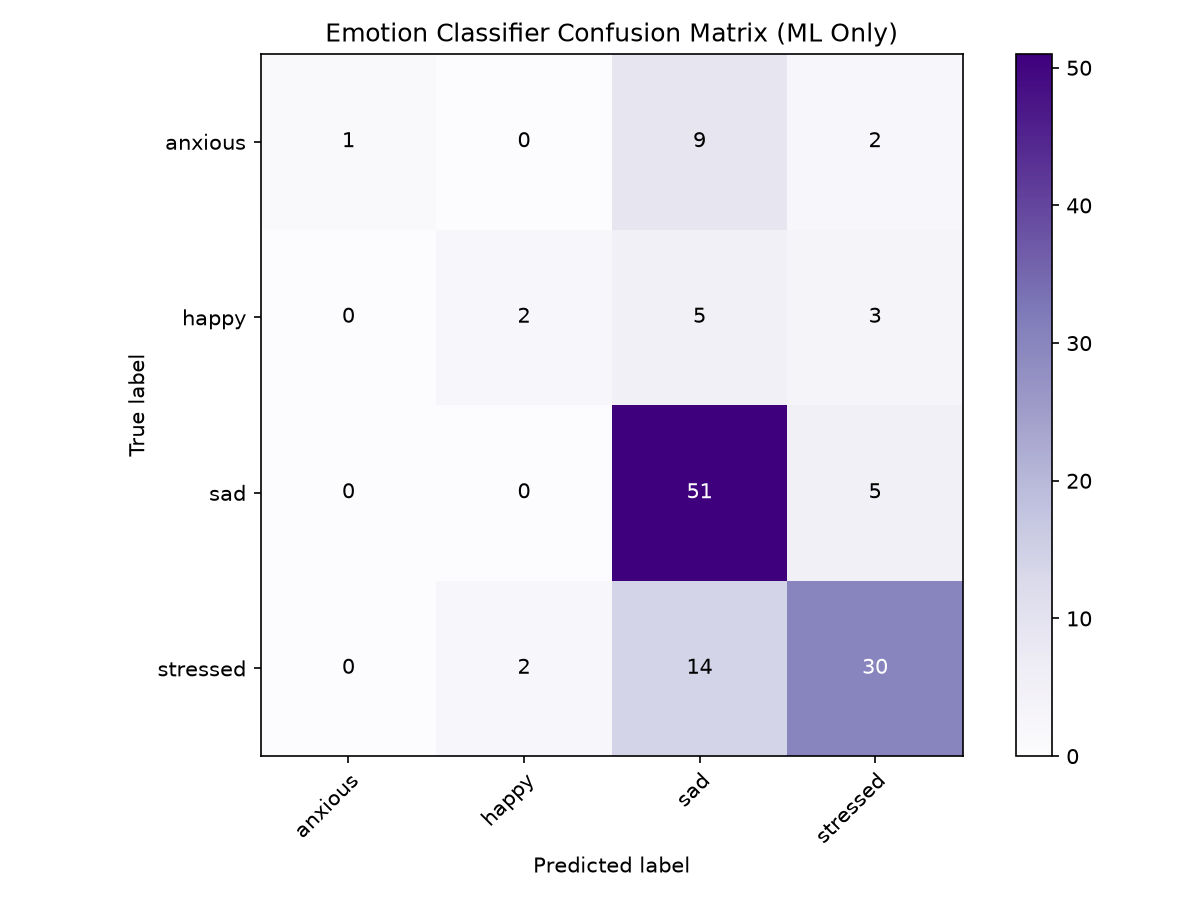
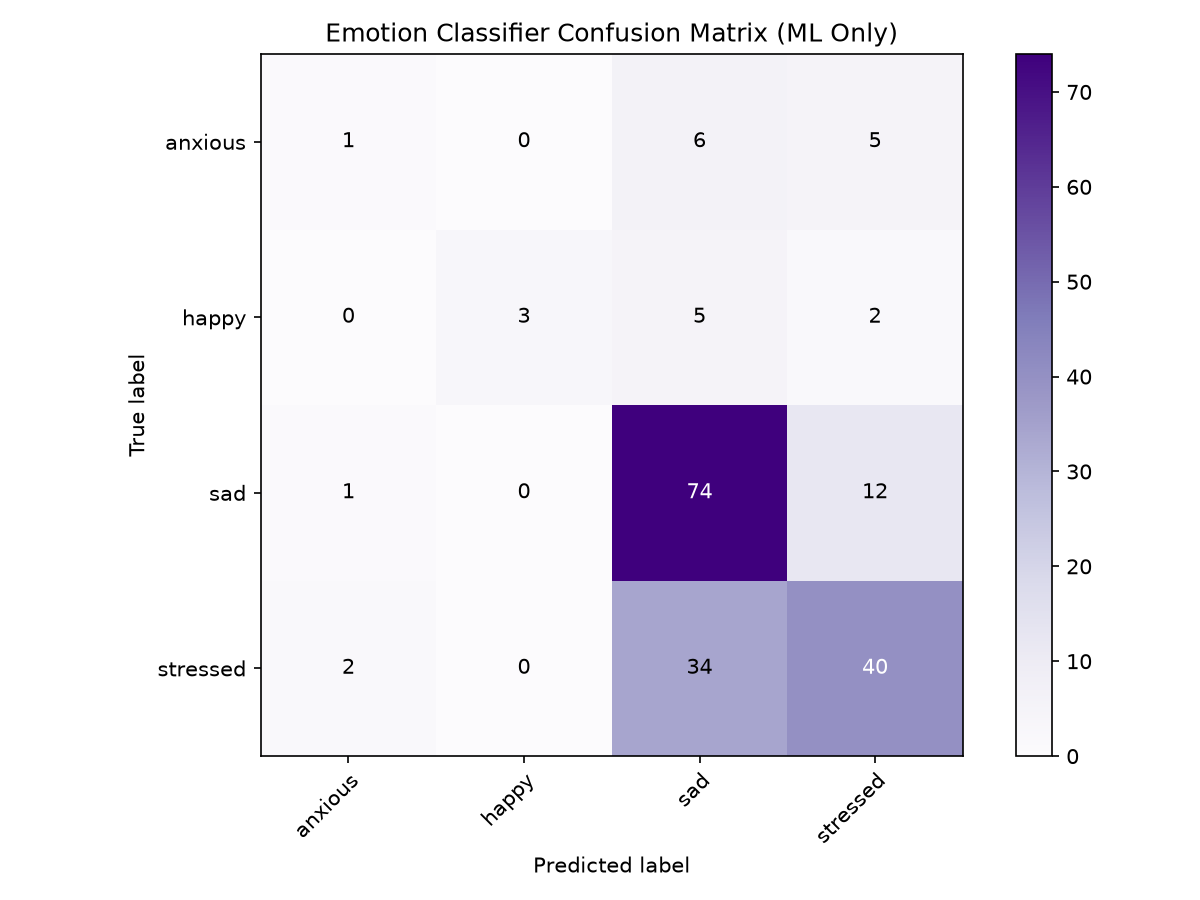
update videos bonding issue

diff --git a/frontend/ml/training_data.py b/frontend/ml/training_data.py
@@ -446,6 +446,26 @@ FINANCIAL_TEXTS = [
     "Money is very tight and I am worried about the future",
     "I don't know how we will manage our baby expenses",
     "Financial pressure is making me feel hopeless",
+    "I keep worrying about whether we can afford everything the baby needs",
+    "The cost of diapers and baby supplies is putting a lot of pressure on me",
+    "I am scared that our money will not be enough for the baby's expenses",
+    "I constantly think about how we are going to pay our household bills",
+    "Having a baby has made our financial situation much harder",
+    "I feel stressed whenever I look at our monthly expenses",
+    "I do not know how we will manage all these new baby costs",
+    "I worry that we will run out of money before the end of the month",
+    "The price of baby products is making me very anxious",
+    "I feel helpless because our income is not enough for everything",
+    "I keep calculating our expenses in my head every night",
+    "I am worried about paying for the things my baby will need",
+    "Our savings are disappearing faster than I expected",
+    "I am afraid of having an unexpected expense because we have very little money left",
+    "Money problems are making this period much harder for me",
+    "I feel guilty when I cannot afford something my baby needs",
+    "I keep thinking about our debt and how we will manage it",
+    "We are struggling to cover our basic household expenses",
+    "I am worried about the cost of my baby's medical needs",
+    "I cannot stop thinking about how expensive everything has become",
     # Sinhala Unicode
     "මට බබා ලැබුණාට පස්සේ සල්ලි ගැන ලොකු බයක් තියෙනවා",
     "මට වියදම් ගැන ගොඩක් කනස්සල්ලයි",
@@ -455,6 +475,21 @@ FINANCIAL_TEXTS = [
     "සල්ලි ප්රශ්න නිසා මට හරිම අමාරුයි",
     "වියදම් වැඩි නිසා මට මූල්යමය කනස්සල්ලක් තියෙනවා",
     "මුදල් ප්රශ්න නිසා හිතට කිසිම සහනයක් නැහැ",
+     "බබාට අවශ්ය හැම දෙයක්ම ගන්න අපිට සල්ලි මදි වෙයි කියලා මට බයයි",
+    "ඩයපර් සහ බබාගේ අනෙකුත් දේවල්වල වියදම ගොඩක් වැඩියි",
+    "මේ මාසේ ගෙදර බිල් ගෙවන්නේ කොහොමද කියලා මම නිතරම හිතනවා",
+    "බබාගේ වියදම් නිසා අපේ මුදල් ප්රශ්න වැඩි වෙලා වගේ දැනෙනවා",
+    "අපේ ආදායම හැම වියදමකටම ප්රමාණවත් නැහැ",
+    "අපේ ඉතිරිකිරීම් ඉක්මනින් අඩු වෙනවා කියලා මට බයයි",
+    "බබාට අවශ්ය දේවල් ගන්න බැරි වෙයි කියලා මට කනගාටුයි",
+    "ගෙදර වියදම් සහ බබාගේ වියදම් දෙකම කළමනාකරණය කරන්න අමාරුයි",
+    "හදිසි වියදමක් ආවොත් අපිට ඒක දරාගන්න බැරි වෙයි කියලා බයයි",
+    "බබාගේ වෛද්ය වියදම් ගැන මම ගොඩක් කනස්සල්ලෙන් ඉන්නේ",
+    "මුදල් ප්රශ්න නිසා මගේ හිතට ලොකු පීඩනයක් දැනෙනවා",
+    "හැම මාසෙම වියදම් ගණන් කරමින් ඉන්න එක මට හරිම මහන්සියි",
+    "අපේ ණය ගෙවන්නේ කොහොමද කියලා මම නිතරම කල්පනා කරනවා",
+    "බබා ලැබුණට පස්සේ අපේ ආර්ථික තත්ත්වය අමාරු වෙලා",
+    "හැම දේම මිල වැඩි නිසා අපිට ජීවත් වෙන්න අමාරුයි",
     # Singlish
     "mata salli gana godak baya hithenawa",
     "mata financial problems thiyenawa",
@@ -464,6 +499,22 @@ FINANCIAL_TEXTS = [
     "expenses wadi nisa financial stress",
     "salli naha baby ge wada walata",
     "mudal gatalu nisa mata harima amaruwi"
+    "mata baya hitheenne baba ta ona dewal okkoma ganna salli madi wei kiyala",
+    "ape income eka athi wenne naha baba ge expenses ekka",
+    "diapers saha baba ge dewal walata yanawata godak salli yanawa",
+    "mata hamadama hithenne me maseta bills gewanne kohomada kiyala",
+    "ape savings tika ikmanata iwara wenawa wage danenawa",
+    "baba ge wiyadam nisa ape mudal prashna godak wadi wela",
+    "mata salli gana hithala godak baya hithenawa",
+    "unexpected expense ekak awoth api kohomada karanne kiyala mata baya",
+    "baba ta ona dewal ganna bari wei kiyala mata dukai",
+    "ape gedara expenses manage karanna mata amarui",
+    "salli madi nisa mata godak pressure ekak danenawa",
+    "mata hamadama bills saha baba ge wiyadam gana hithenawa",
+    "ape atha thiyena salli tika godak ikmanin adu wenawa",
+    "baba ge medical expenses gana mama godak worry wenawa",
+    "api me wage salli prashna ekka kohomada issarahata yanne kiyala danne naha",
+
 ]
 FINANCIAL_REASONS = ["financial_worry"] * len(FINANCIAL_TEXTS)
 FINANCIAL_EMOTIONS = ["stressed"] * len(FINANCIAL_TEXTS)
@@ -483,6 +534,27 @@ RELATIONSHIP_TEXTS = [
     "My partner and I cannot communicate without arguing",
     "Family problems are making my postpartum recovery harder",
     "I feel like my marriage is breaking apart after the baby",
+    "My husband and I keep arguing since the baby was born",
+    "I feel hurt because my partner and I cannot communicate properly anymore",
+    "There is constant tension between me and my husband",
+    "My family keeps criticizing the way I care for my baby",
+    "I argue with my mother whenever she gives me advice about the baby",
+    "My partner does not understand why I am upset with him",
+    "Small conversations with my husband quickly turn into arguments",
+    "I feel emotionally hurt by the way my husband speaks to me",
+    "My family and I disagree about how the baby should be raised",
+    "I feel like my relationship with my partner has changed completely",
+    "We cannot discuss parenting without getting into an argument",
+    "My husband and I have been distant because we keep fighting",
+    "I feel frustrated by the constant disagreements at home",
+    "My parents keep interfering in decisions about my baby",
+    "I do not feel understood by my partner when we discuss the baby",
+    "There has been so much conflict between our families lately",
+    "My husband gets angry whenever I tell him how I feel",
+    "I feel hurt after the arguments I have with my family",
+    "We have different opinions about almost everything concerning the baby",
+    "My relationship feels tense since becoming parents",
+
     # Sinhala Unicode
     "මට බබා ලැබුණාට පස්සේ මගේ husband එක්ක ප්රශ්න",
     "අපි දෙන්නා අතර නිතරම රණ්ඩු වෙනවා",
@@ -492,6 +564,20 @@ RELATIONSHIP_TEXTS = [
     "සැමියා එක්ක නිතරම ආරවුල් ඇතිවෙනවා",
     "පවුලේ අය මට සහයෝගය නොදී ප්රශ්න ඇතිකරනවා",
     "අපේ අඹුසැමි සබඳතාවය බබා ලැබුණාට පස්සේ දුරස් වෙලා",
+    "බබා ලැබුණට පස්සේ මගේ මහත්තයා එක්ක නිතරම වාද වෙනවා",
+    "මට මගේ සහකරු එක්ක හොඳින් කතා කරගන්න බැරි වෙලා",
+    "මම මගේ මහත්තයා එක්ක කතා කරන හැම වෙලාවකම ප්රශ්නයක් ඇති වෙනවා",
+    "මගේ පවුලේ අය බබාව බලාගන්න විදිහ ගැන නිතරම විවේචනය කරනවා",
+    "බබාව හදන විදිහ ගැන අපේ අදහස් එකිනෙකට වෙනස්",
+    "මගේ සහකරු මට දැනෙන දේ තේරුම් ගන්නේ නැහැ",
+    "ගෙදර පොඩි කතා පවා දැන් වාදයකට යනවා",
+    "මගේ මහත්තයා මට කතා කරන විදිහ නිසා මට ගොඩක් රිදෙනවා",
+    "බබා ගැන තීරණ ගන්නකොට අපි දෙන්නා එකඟ වෙන්නේ නැහැ",
+    "දරුවා ලැබුණට පස්සේ අපේ සම්බන්ධය ගොඩක් වෙනස් වෙලා",
+    "මගේ දෙමාපියන් බබා ගැන ගන්න තීරණවලට වැඩිපුර මැදිහත් වෙනවා",
+    "ගෙදර හැමදාම වගේ ආතතියක් සහ මතභේදයක් තියෙනවා",
+    "මගේ මහත්තයා එක්ක ඇති වෙන වාද නිසා මගේ හිත ගොඩක් රිදෙනවා",
+    "අපේ පවුල් දෙක අතරත් මේ දවස්වල ගොඩක් ප්රශ්න තියෙනවා",
     # Singlish
     "mata husband ekka relationship eka gana prashna thiyenawa",
     "baba labunata passe ape relationship eka hari naha",
@@ -499,6 +585,21 @@ RELATIONSHIP_TEXTS = [
     "husband ekka hamawelama randu wenawa",
     "pawule aya ekka prashna nisa stress",
     "ape relationship eka badaga wela baba labuna passe"
+    "baba ipaduna passe mage husband ekka hamadama wage tharah wenawa",
+    "ape dekadena athara podi dewal walatath arguments wenawa",
+    "mage husband mata mama danena widihata therum ganneth naha",
+    "gedara aya baba hadana widihata gana hamadama comment karanawa",
+    "mama mage husband ekka kathaa karanna giyama eka arguments ekakin iwara wenawa",
+    "ape relationship eka kalin wage nemei kiyala danenawa",
+    "mage family eka baba gana ganna decisions walata atha danawa",
+    "mage husband mata hithena dewal kiyuwama tharah wenawa",
+    "baba gana ape dekadena athara eka ekkena ekka agree wenne naha",
+    "gedara hamadama tension ekak thiyenawa",
+    "mama husband ekka tharah wela passe godak dukai",
+    "ape family dekama athara godak prashna thiyenawa",
+    "mage husband mata support karanne kohomada kiyala api dekadena athara arguments thiyenawa",
+    "mage amma baba gana kiyala dena dewal walata mama godak upset wenawa",
+    "api baba hadana widiya gana hemadama agree wenne naha",
 ]
 RELATIONSHIP_REASONS = ["relationship_family_problem"] * len(RELATIONSHIP_TEXTS)
 RELATIONSHIP_EMOTIONS = ["stressed"] * len(RELATIONSHIP_TEXTS)
@@ -622,7 +723,42 @@ CONFIDENCE_TEXTS = [
     "I feel like I am not cut out for motherhood",
     "I keep comparing myself to other mothers and feeling inferior",
     "I have no confidence left and feel like giving up",
+    "I keep wondering whether I am good enough to be a mother",
+    "I do not trust myself to make the right decisions for my baby",
+    "I feel like other mothers know what they are doing but I do not",
+    "I doubt myself every time my baby needs something",
+    "I feel like I am failing at motherhood",
+    "I am constantly questioning whether I am taking care of my baby correctly",
+    "I have lost confidence in my ability to look after my child",
+    "I feel incapable whenever something goes wrong with the baby",
+    "I compare myself with other mothers and feel inadequate",
+    "I keep thinking that another mother would do a better job than me",
+    "I am afraid that I am not a good enough mother",
+    "I second guess almost every parenting decision I make",
+    "I feel unsure about myself as a parent",
+    "I do not feel confident when handling my baby",
+    "I feel like everyone else understands motherhood better than I do",
+    "I worry that I am making mistakes as a mother",
+    "I have stopped believing that I can handle motherhood well",
+    "I feel embarrassed when I do not know what to do for my baby",
+    "I keep asking myself whether I am doing enough for my child",
+    "My confidence as a mother has become very low",
+
     # Sinhala
+    "මම හොඳ අම්මා කෙනෙක්ද කියලා නිතරම මට සැක හිතෙනවා",
+    "බබා වෙනුවෙන් හොඳ තීරණ ගන්න මට මාවම විශ්වාස නැහැ",
+    "අනිත් අම්මලාට හැම දෙයක්ම තේරෙනවා වගේ මට කිසි දෙයක් තේරෙන්නේ නැහැ",
+    "බබාට මොනවා හරි වුණාම මම මගේ හැකියාව ගැන සැක කරනවා",
+    "මම අම්මා කෙනෙක් විදිහට අසාර්ථකයි වගේ මට දැනෙනවා",
+    "බබාව හරියට බලාගන්නවාද කියලා මම හැමදාම සැක කරනවා",
+    "අම්මා කෙනෙක් විදිහට මගේ විශ්වාසය ගොඩක් අඩු වෙලා",
+    "බබාට මොනවා කරන්නද කියලා නොදන්න වෙලාවට මට මම ගැනම ලැජ්ජයි",
+    "අනිත් අම්මලා එක්ක මාව සසඳනකොට මම ප්රමාණවත් නැහැ වගේ දැනෙනවා",
+    "මම කරන හැම parenting decision එකක් ගැනම ආයෙ ආයෙ හිතනවා",
+    "මට බබාව හරියට බලාගන්න පුළුවන්ද කියලා විශ්වාස නැහැ",
+    "අම්මා කෙනෙක් විදිහට මගේ හැකියාව ගැන මට සැකයි",
+    "මම බබා වෙනුවෙන් ප්රමාණවත් දෙයක් කරනවාද කියලා නිතරම හිතනවා",
+    "මගේ අම්මා කෙනෙක් විදිහට තිබුණු විශ්වාසය දැන් ගොඩක් අඩුයි",
     "\u0db8\u0db8 \u0db1\u0dbb\u0d9a \u0d85\u0db8\u0dca\u0db8\u0dcf \u0d9a\u0dd9\u0db1\u0dd9\u0d9a\u0dca \u0db8\u0da7 \u0d9a\u0dd2\u0dc3\u0dd2\u0db8 \u0daf\u0dd9\u0dba\u0d9a\u0dca \u0db6\u0dd0\u0dc4\u0dd0",
     "\u0db8\u0da7 \u0db8\u0d82 \u0d9c\u0dd0\u0db1 \u0d9a\u0dd2\u0dc3\u0dd2\u0db8 \u0dc5\u0dc1\u0dca\u0dc0\u0dcf\u0dc3\u0dba\u0d9a\u0dca \u0db1\u0dd0\u0dc4\u0dd0",
     "\u0db8\u0db8 \u0d9a\u0dbb\u0db1\u0dca\u0db1\u0dda \u0dc4\u0dd0\u0db8\u0daf\u0dda\u0db8 \u0dc0\u0dbb\u0daf\u0dd2\u0db1\u0dc0\u0dcf",
@@ -644,6 +780,21 @@ CONFIDENCE_TEXTS = [
     "mata amma widiyata inna baha kiyala hithena",
     "mata man gana wishwasayak naha amma wenna baha kiyala",
     "mama anith ammala wage karana baha kiyala harima duka",
+    "mama hithanne mama hondama amm kenekda kiyala",
+    "baba gana hari decision ekak ganna mata wiswasayak naha",
+    "anith amma la okkoma danne wage mata witharak kisima deyak therenneth naha",
+    "baba ta mokak hari unama mama mage gana doubt wenawa",
+    "mata hithenne mama ammek widihata fail wela wage",
+    "mama baba balaganne hariyata da kiyala hamadama hithanawa",
+    "mata baba handle karanna confidence ekak naha",
+    "anith amma la ekka compare karala mama madi wage hithenawa",
+    "mata hithenne wena amma kenek mata wada hondin baba balagani kiyala",
+    "mama hondama amma kenek nemei wage hithenawa",
+    "parenting decisions gannakota mama hamadama doubt wenawa",
+    "mata amma kenek widihata loku confidence ekak naha",
+    "baba gana mama karana dewal hari da kiyala sure naha",
+    "mama baba care karana eka gana self confidence eka adu wela",
+    "mata hithenne anith aya motherhood eka mata wada hondin karanawa kiyala",
 ]
 CONFIDENCE_REASONS = ["loss_of_confidence"] * len(CONFIDENCE_TEXTS)
 CONFIDENCE_EMOTIONS = ["sad"] * len(CONFIDENCE_TEXTS)
@@ -824,7 +975,42 @@ NEGATIVE_TEXTS = [
     "The dark thoughts come even when things seem okay",
     "I feel like I will always feel this bad and never recover",
     "I feel hopeless about my future and my baby's future",
+    "My mind keeps filling with negative thoughts about myself",
+    "I keep telling myself that nothing I do is good enough",
+    "I cannot seem to stop thinking badly about myself",
+    "Every day I find another reason to criticize myself",
+    "I keep expecting everything in my life to go wrong",
+    "My thoughts have become very negative since becoming a mother",
+    "I automatically think about the worst side of everything",
+    "I keep blaming myself for things that are not completely my fault",
+    "I feel trapped in a cycle of negative thinking",
+    "My mind keeps reminding me of everything I think I have done wrong",
+    "I struggle to see anything positive about myself these days",
+    "I keep thinking that I am a burden to everyone around me",
+    "Even good moments quickly turn into negative thoughts in my head",
+    "I constantly put myself down without meaning to",
+    "I cannot get away from the negative things I tell myself",
+    "My thoughts make me feel worthless sometimes",
+    "I keep replaying my mistakes in my head",
+    "I always assume that I am the problem",
+    "It is difficult for me to think positively about my life",
+    "My mind feels stuck on negative thoughts all day",
     # Sinhala
+     "මගේ හිතේ හැමදාම මම ගැන නරක සිතුවිලි එනවා",
+    "මම කරන කිසිම දෙයක් ප්රමාණවත් නැහැ වගේ මට හිතෙනවා",
+    "මම ගැන නරක විදිහට හිතන එක නවත්වන්න මට බැහැ",
+    "මම හැමදාම මගේ වැරදි විතරක් මතක් කරනවා",
+    "හැම දෙයක්ම වැරදියි කියලා මම කලින්ම හිතනවා",
+    "අම්මා කෙනෙක් වුණාට පස්සේ මගේ සිතුවිලි ගොඩක් නරක වෙලා",
+    "මම කරන දේවල් ගැන නිතරම මටම දොස් කියාගන්නවා",
+    "මගේ හිත නරක සිතුවිලි වලින් පිරුණා වගේ දැනෙනවා",
+    "මට මගේ ජීවිතයේ හොඳ පැත්තක් දකින්න අමාරුයි",
+    "මම හැම වෙලාවකම මමම ප්රශ්නය කියලා හිතනවා",
+    "මම හැමදාම අනිත් අයට බරක් වගේ දැනෙනවා",
+    "හොඳ දෙයක් වුණත් මගේ හිත ඉක්මනින්ම නරක පැත්තට යනවා",
+    "මම ගැනම පහත් විදිහට හිතන එක නවත්වන්න බැහැ",
+    "මගේ වැරදි ආයෙ ආයෙ මතක් කරමින් ඉන්නවා",
+    "දවස පුරාම මගේ හිත නරක සිතුවිලි වල හිර වෙලා වගේ",
     "\u0db8\u0da7 \u0da2\u0dd3\u0dc5\u0dd2\u0dad\u0dda \u0d91\u0db4\u0dcf \u0dc0\u0dda\u0dbd\u0dcf \u0db8\u0dd0\u0dbb\u0dd9\u0db1\u0dca\u0db1 \u0dc4\u0dd2\u0dad\u0dd9\u0db1\u0dc0\u0dcf",
     "\u0db8\u0da7 \u0d85\u0da9\u0dd4\u0dbb\u0dd4 \u0dc3\u0dd2\u0dad\u0dd4\u0dc5\u0dd2\u0dbd\u0dd2 \u0d91\u0db1\u0dc0\u0dcf \u0db8\u0da7 \u0db6\u0dba\u0dba\u0dd2",
     "\u0db8\u0db8 \u0db1\u0dd0\u0dad\u0dd2 \u0dc0\u0dd4\u0dab\u0ddc\u0dad\u0dca \u0d94\u0d9a\u0dca\u0d9a\u0ddc\u0db8 \u0dc4\u0ddc\u0da9 \u0dc0\u0dda\u0dba\u0dd2",
@@ -836,6 +1022,21 @@ NEGATIVE_TEXTS = [
     "\u0db8\u0da7 \u0d9a\u0dd2\u0dc3\u0dd2\u0db8 \u0d86\u0dc3 \u0db1\u0dda \u0da2\u0dd3\u0dc5\u0dd2\u0dad\u0dba \u0d9c\u0dd9\u0db1",
     "\u0db8\u0db8 \u0db1\u0dd0\u0dad\u0dd2 \u0dc0\u0dd4\u0dab\u0dcf \u0db1\u0db8 \u0dc4\u0ddc\u0da9 \u0dc0\u0dda\u0dba\u0dd2 \u0d9a\u0dd2\u0dba\u0dbd\u0dcf \u0dc4\u0dd2\u0dad\u0dd9\u0db1\u0dca\u0db1\u0dda",
     # Singlish
+    "mage hitha hamadama mama gana naraka dewal hithanawa",
+    "mama karana kisima deyak hari naha wage mata hithenawa",
+    "mama gana naraka widihata hithana eka nawaththanna baha",
+    "mama hamadama mage waradi witharai mathak karanawa",
+    "hamadema waradi wenawa kiyala mama kalinma hithanawa",
+    "amma kenek una passe mage hithili godak negative wela",
+    "mama karapu dewal gana mata hamadama waradak wage hithenawa",
+    "mama hamadama mama waraddak kiyala hithanawa",
+    "mage hitha negative thoughts walin pirila wage",
+    "mata mage hondama dewal penenne naha",
+    "mama hamadama mata mawa blame karanawa",
+    "mama hamadama mama anith ayata burden ekak kiyala hithanawa",
+    "honda deyak unath mata eka gana positive widihata hithanna baha",
+    "mata mage gana naraka hithili nawaththanna baha",
+    "mama karapu podi waradi pawa aye aye mathak wenawa",
     "mata jeewithe epa wela merenna hithenawa",
     "mata anduru sithuwili enawa mata bayai",
     "mama nathiwunot okkoma hoda wei",

diff --git a/frontend/ml/emotion_service.py b/frontend/ml/emotion_service.py
@@ -602,10 +602,10 @@ def analyze():
                 ],
                 "bonding_issues": [
                     "bonding", "bond with my baby", "bonding with baby", "feel close to my baby", "not close to my baby",
-                    "emotionally distant", "emotionally distant from my baby", "don't feel connected to my baby", "can't connect with my baby",
+                    "emotionally distant", "emotionally distant from my baby", "don't feel connected to my baby", "do not feel connected to my baby", "can't connect with my baby", "cannot connect with my baby", "cannot connect with my newborn", "connect with my newborn", "how to connect with my newborn",
                     "connection with my baby", "attachment to my baby", "not attached to my baby", "feel disconnected from my baby",
-                    "not bonding with my baby", "don't feel the connection", "don't feel close",
-                    "don't know how to connect", "building a bond", "build a bond", "close to my baby", "cannot feel a real connection",
+                    "not bonding with my baby", "don't feel the connection", "do not feel the connection", "don't feel close", "do not feel close",
+                    "don't know how to connect", "do not know how to connect", "building a bond", "build a bond", "close to my baby", "cannot feel a real connection",
                     "detached from my child", "feel empty instead of love", "like a caregiver not a mother", "baby feels like a stranger",
                     " disconnected", "attachment", "maternal instinct", "guilt", "guilty",
                     "මගේ බබාට ලං වෙලා නැහැ", "බබා එක්ක බැඳීමක් නැහැ", "බබා එක්ක සම්බන්ධ වෙන්න බැහැ", "බබා එක්ක connection එකක් නැහැ",

diff --git a/frontend/ml/evaluate_diary_pipeline.py b/frontend/ml/evaluate_diary_pipeline.py
@@ -172,10 +172,10 @@ REASON_KEYWORDS = {
     ],
     "bonding_issues": [
         "bonding", "bond with my baby", "bonding with baby", "feel close to my baby", "not close to my baby",
-        "distant", "emotionally distant", "emotionally distant from my baby", "don't feel connected to my baby", "can't connect with my baby",
+        "distant", "emotionally distant", "emotionally distant from my baby", "don't feel connected to my baby", "do not feel connected to my baby", "can't connect with my baby", "cannot connect with my baby", "cannot connect with my newborn", "connect with my newborn", "how to connect with my newborn",
         "connection with my baby", "attachment to my baby", "not attached to my baby", "feel disconnected from my baby",
-        "not bonding with my baby", "don't feel the connection", "don't feel close",
-        "don't know how to connect", "building a bond", "build a bond", "close to my baby", "cannot feel a real connection",
+        "not bonding with my baby", "don't feel the connection", "do not feel the connection", "don't feel close", "do not feel close",
+        "don't know how to connect", "do not know how to connect", "building a bond", "build a bond", "close to my baby", "cannot feel a real connection",
         "detached from my child", "feel empty instead of love", "like a caregiver not a mother", "baby feels like a stranger",
         " disconnected", "attachment", "maternal instinct", "guilt", "guilty",
         "මගේ බබාට ලං වෙලා නැහැ", "බබා එක්ක බැඳීමක් නැහැ", "බබා එක්ක සම්බන්ධ වෙන්න බැහැ", "බබා එක්ක connection එකක් නැහැ",
